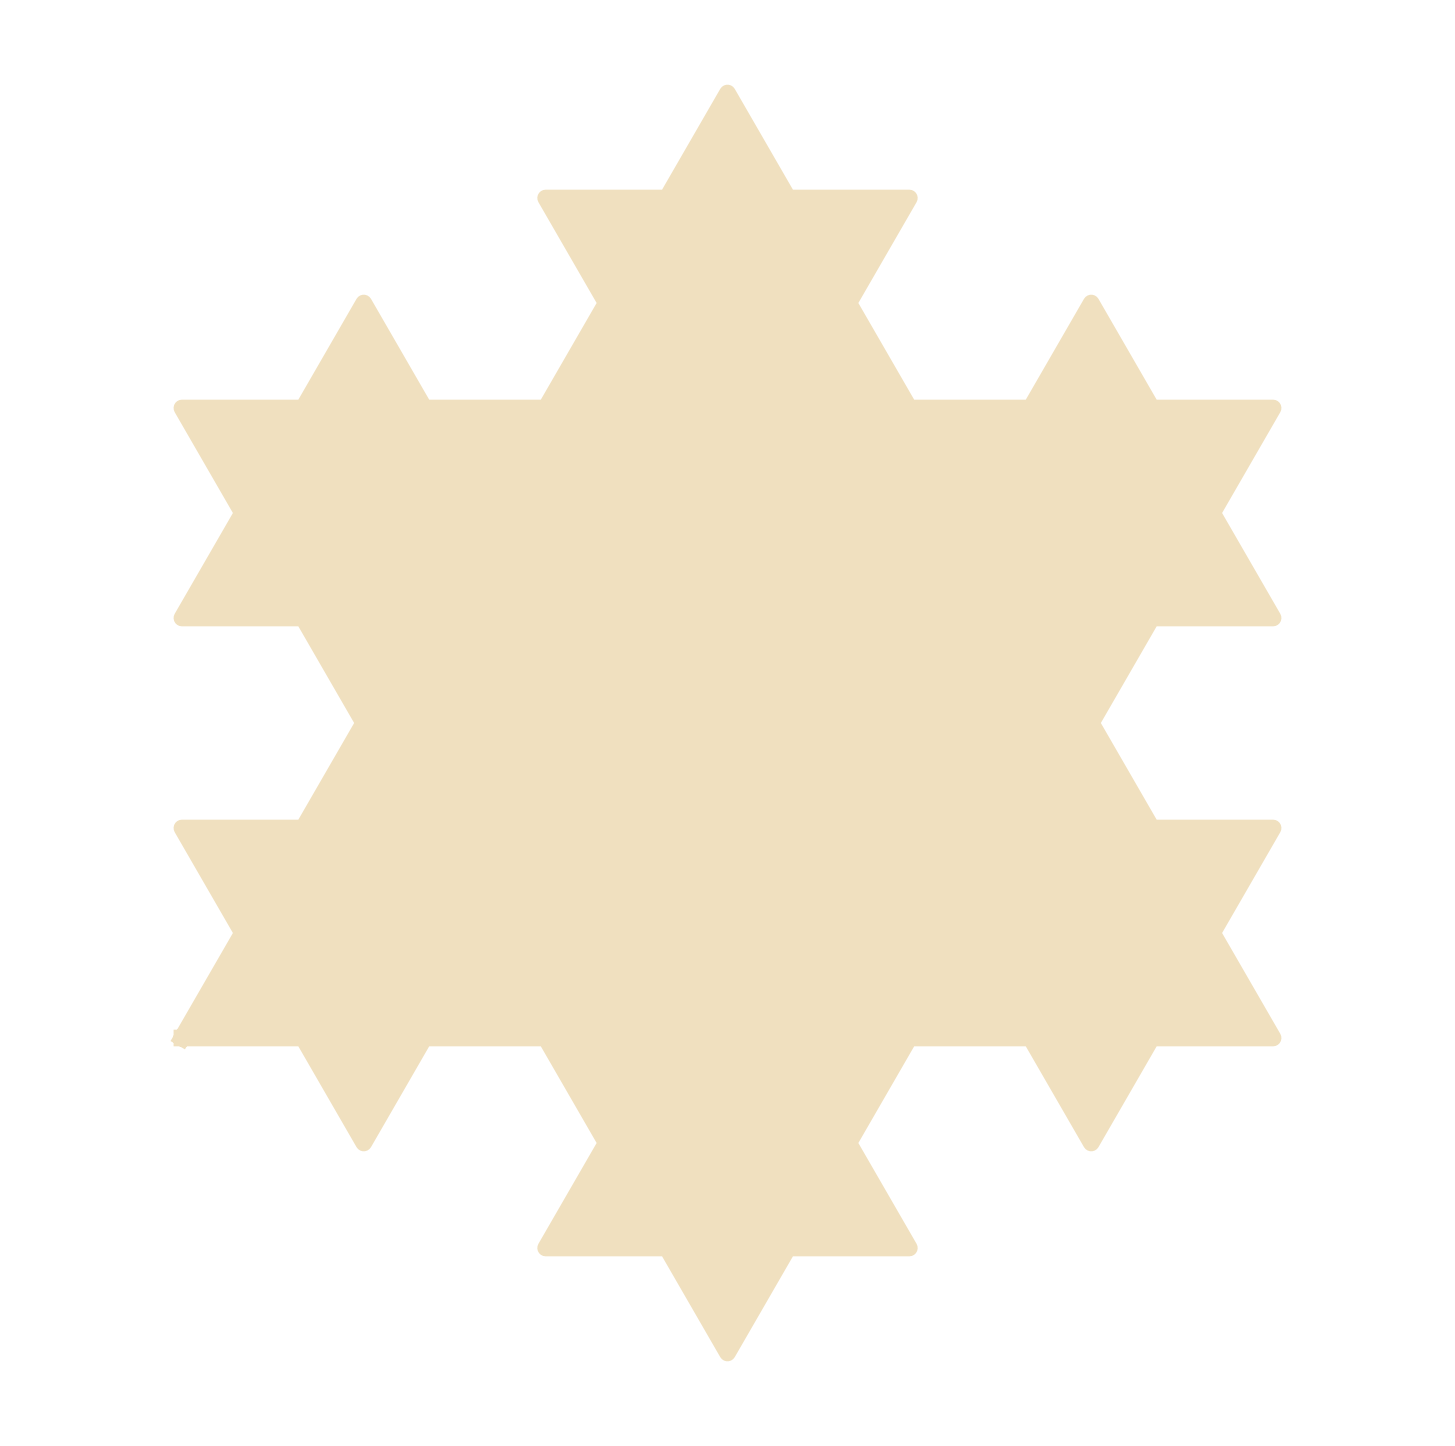
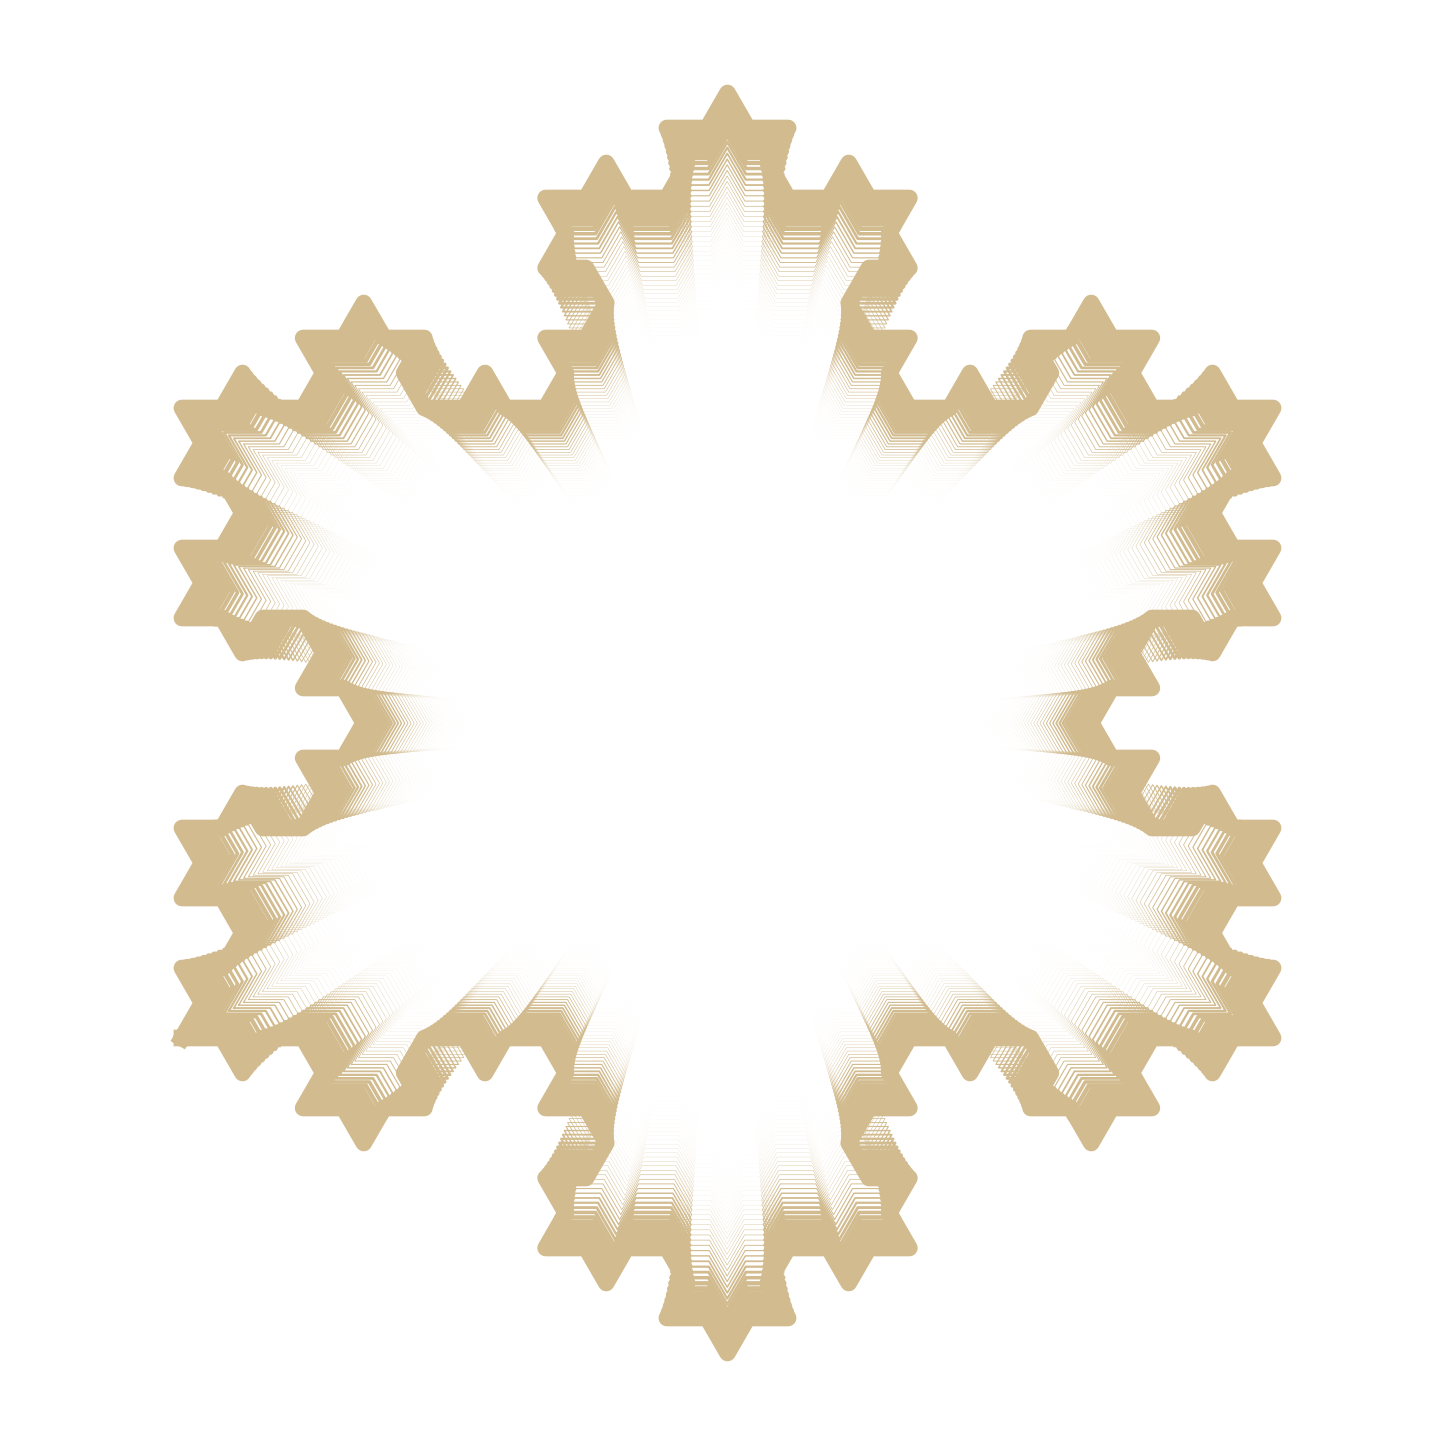
edits

diff --git a/Dev 3 (New)/koch_2.py b/Dev 3 (New)/koch_2.py
@@ -35,10 +35,14 @@ def koch_snowflake(order, scale=10):
 
     return np.array(points)
 
-line_col = ((240/255), (224/255), (191/255))
-fill_col = ((240/255), (224/255), (191/255))
+# line_col = ((240/255), (224/255), (191/255)) # beige 1
+# line_col = ((209/255), (187/255), (143/255)) # beige 2
+line_col = ((232/255), (210/255), (171/255)) # beige 3
+# line_col = ((114/255), (138/255), (141/255)) # blue 1
+# line_col = ((114/255), (113/255), (100/255)) # brown 1
+fill_col = ((114/255), (138/255), (141/255))
 
-def draw_recursive_snowflakes(order=3, scale=10, depth=3, scale_factor=0.9, center=None, linewidth=4, fill_color=None):
+def draw_recursive_snowflakes(order=3, scale=10, depth=3, scale_factor=0.9, center=None, linewidth=4, fill_colour=None):
     # Generate the current snowflake
     points = koch_snowflake(order=order, scale=scale)
 
@@ -56,22 +60,22 @@ def draw_recursive_snowflakes(order=3, scale=10, depth=3, scale_factor=0.9, cent
     points_translated = points + translation
 
     # Fill the current snowflake if fill_color is provided
-    if fill_color is not None:
-        plt.fill(points_translated[:, 0], points_translated[:, 1], color=fill_color, linewidth=0)
+    if fill_colour is not None:
+        plt.fill(points_translated[:, 0], points_translated[:, 1], color=fill_colour, linewidth=0)
 
     # Plot the current snowflake
     plt.plot(points_translated[:, 0], points_translated[:, 1], color=line_col, linewidth=linewidth)
 
     # Recursive call for next smaller snowflake with reduced linewidth
     if depth > 1:
-        draw_recursive_snowflakes(order, scale * scale_factor, depth - 1, scale_factor, center=center, linewidth=linewidth * 0.8, fill_color=fill_color)
+        draw_recursive_snowflakes(order, scale * scale_factor, depth - 1, scale_factor, center=center, linewidth=linewidth * 0.8, fill_colour=fill_colour)
 
 # Save/show the plot
 plt.figure(figsize=(6, 6))
-# draw_recursive_snowflakes(order=3, scale=10, depth=100, scale_factor=0.99) Fade
-draw_recursive_snowflakes(order=2, scale=10, depth=1, scale_factor=0.75, fill_color=(fill_col))
+draw_recursive_snowflakes(order=2, scale=10, depth=1, scale_factor=0.99, fill_colour=(fill_col)) # Fade
+# draw_recursive_snowflakes(order=2, scale=10, depth=1, scale_factor=0.75, fill_colour=None)# (fill_col))
 plt.axis('equal')
 plt.axis('off')
 
-plt.savefig("Dev 3 (New)/snowflake_6.png", dpi=300, bbox_inches='tight', transparent=True)
+plt.savefig("snowflake_8.png", dpi=300, bbox_inches='tight', transparent=True)
 plt.show()

diff --git a/Dev 3 (New)/koch_1.py b/Dev 3 (New)/koch_1.py
@@ -36,7 +36,7 @@ def koch_snowflake(order, scale=10):
     return np.array(points)
 
 # Set the outline color here
-col = ((100/255), (100/255), (100/255))
+col = ((50/255), (50/255), (50/255))
 
 # Generate the snowflake
 points = koch_snowflake(order=3, scale=10)
@@ -46,5 +46,5 @@ plt.figure(figsize=(6, 6))
 plt.plot(points[:, 0], points[:, 1], color=col, linewidth=2)
 plt.axis('equal')
 plt.axis('off')
-plt.savefig("Dev 3 (New)/simple_snowflake.png", dpi=300, bbox_inches='tight', transparent=True)
+plt.savefig("stage_1.png", dpi=300, bbox_inches='tight', transparent=True)
 plt.show()
